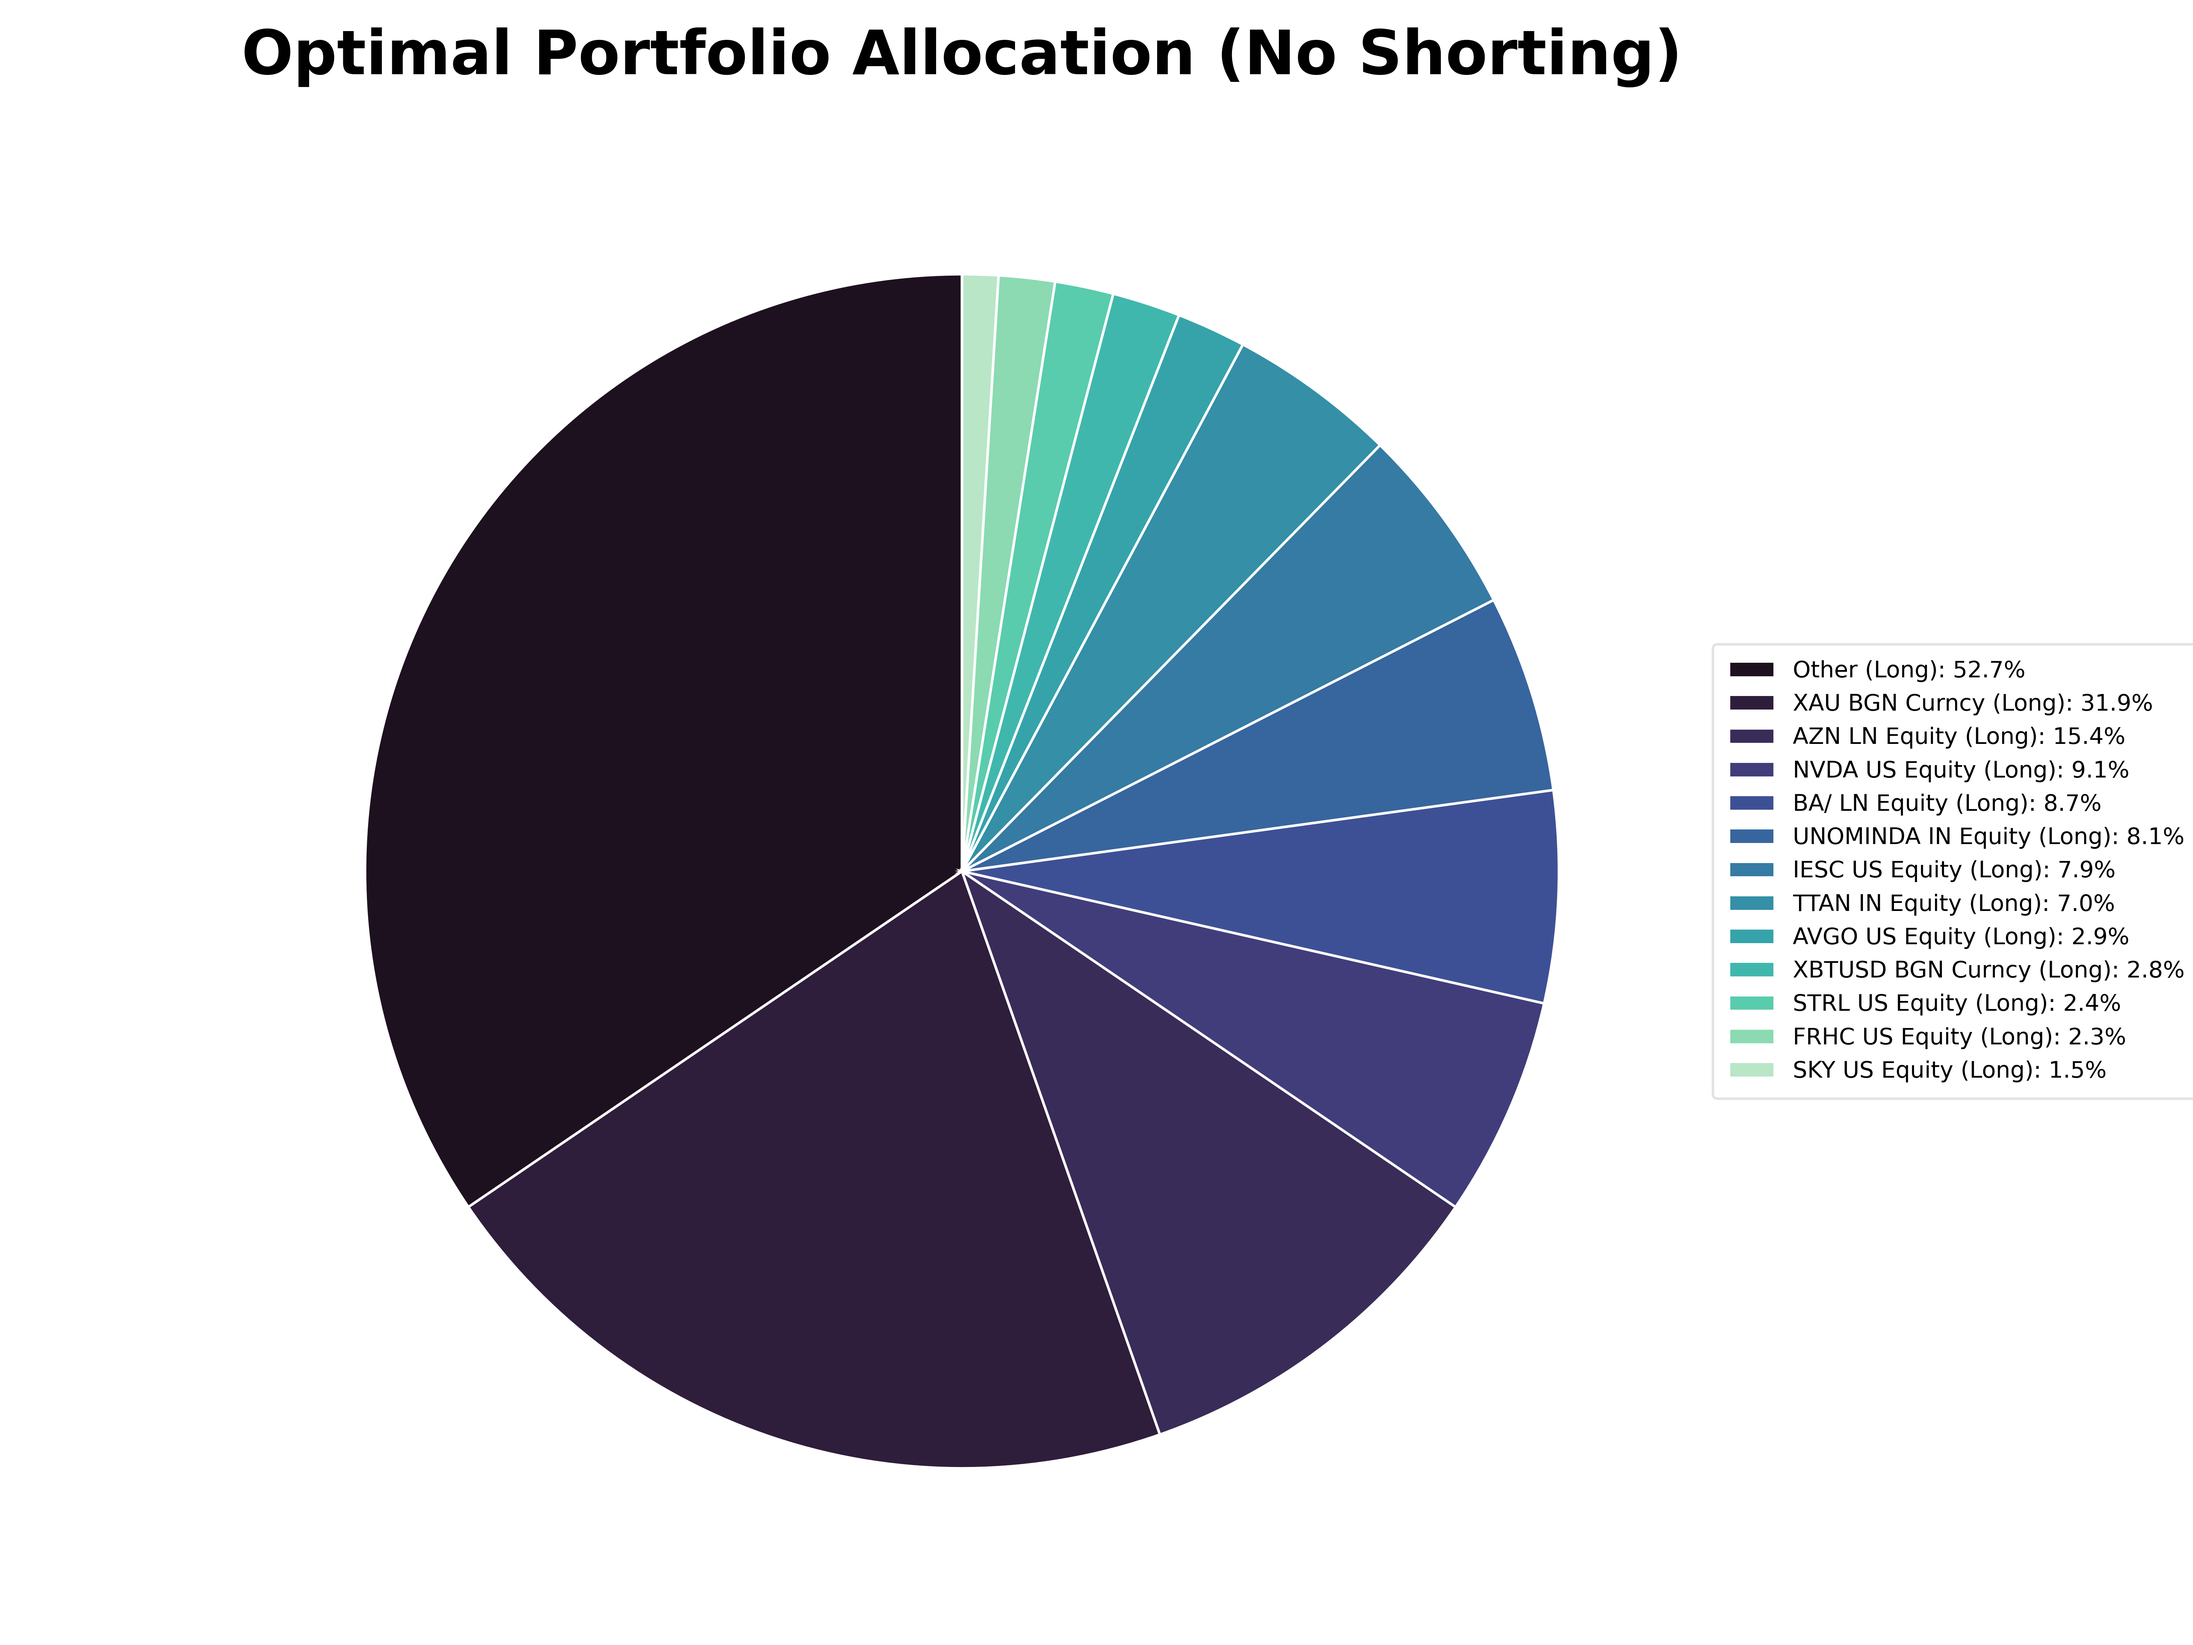
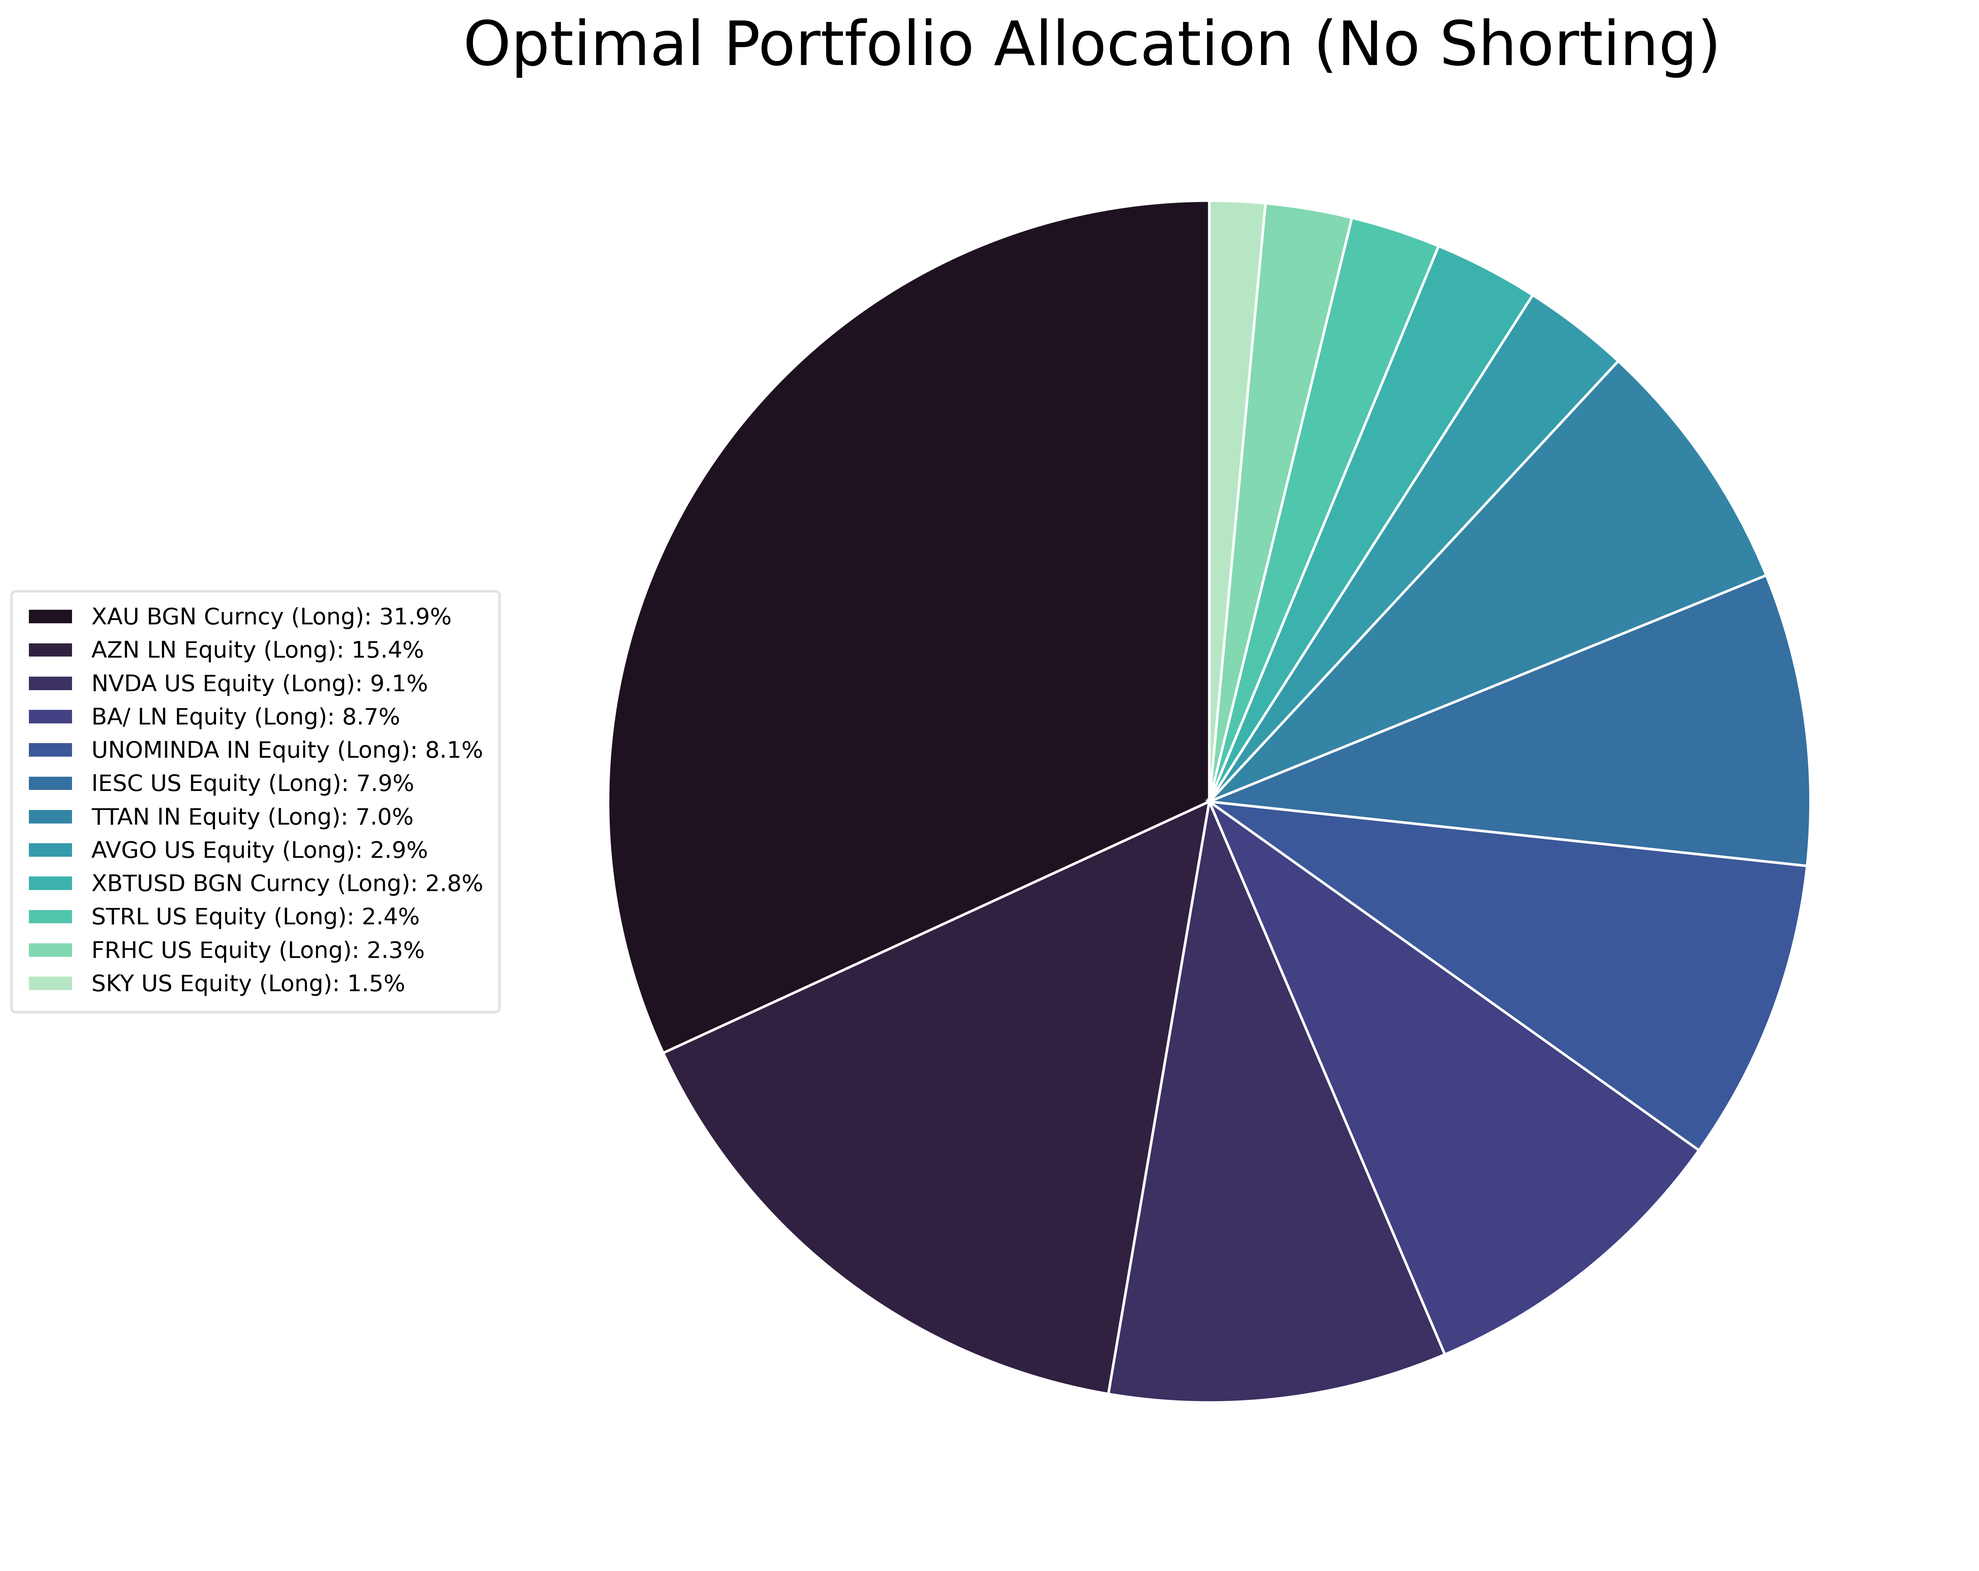
Updated function for plot creation.

diff --git a/src/visualization/portfolio_plots.py b/src/visualization/portfolio_plots.py
@@ -3,11 +3,16 @@ import os
 import numpy as np
 import seaborn as sns
 
+import matplotlib.pyplot as plt
+import os
+import numpy as np
+import seaborn as sns
+
 
 def plot_portfolio_allocation(weights, title, filename):
     """
     Create a professional pie chart of portfolio allocations
-    
+
     Parameters:
     weights (Series): Portfolio weights/allocations (negative values indicate short positions)
     title (str): Chart title
@@ -18,19 +23,27 @@ def plot_portfolio_allocation(weights, title, filename):
     plt.rcParams['font.size'] = 10
     plt.rcParams['axes.titlesize'] = 12
     plt.rcParams['axes.titleweight'] = 'bold'
-    
-    # Filter and sort weights
-    significant_weights = weights[abs(weights) > 0.01]
-    other = weights[abs(weights) <= 0.1].sum()
-    if abs(other) > 0:
-        significant_weights['Other'] = other
-    
+
+    # Separate significant weights (>1%) and small weights (0% to 1%)
+    significant_weights = weights[abs(weights) > 0.01]  # > 1%
+    small_weights = weights[(abs(weights) > 0) & (abs(weights) <= 0.01)]  # 0% to 1%
+
+    # Create "Others" category if there are small weights
+    if len(small_weights) > 0:
+        others_total = small_weights.sum()
+        if abs(others_total) > 0:
+            # Add Others to significant weights for plotting
+            significant_weights = significant_weights.copy()
+            significant_weights['Others'] = others_total
+
     # Sort by absolute weight descending
     significant_weights = significant_weights.iloc[abs(significant_weights).argsort()[::-1]]
     labels = significant_weights.index
 
-    # Create figure with 4:3 aspect ratio
+    # Create figure with adjusted margins for left legend
     fig = plt.figure(figsize=(12, 9), dpi=500)
+    plt.subplots_adjust(left=0.25, right=0.95)  # Make space on left for legend
+
     ax1 = fig.add_subplot(111)  # Main plot area
 
     # Create pie chart without labels or percentages
@@ -42,16 +55,22 @@ def plot_portfolio_allocation(weights, title, filename):
         wedgeprops={'linewidth': 1, 'edgecolor': 'white'}
     )[0]
 
-    # Create detailed legend with allocation info
+    # Create detailed legend with allocation info - SORTED DESCENDING
     legend_labels = [
         f"{label} ({'Long' if significant_weights[label] > 0 else 'Short'}): {abs(significant_weights[label]):.1%}"
         for label in labels
     ]
+
+    # Sort patches and labels by absolute weight descending
+    sorted_indices = abs(significant_weights).argsort()[::-1]
+    sorted_patches = [patches[i] for i in sorted_indices]
+    sorted_legend_labels = [legend_labels[i] for i in sorted_indices]
+
     legend = ax1.legend(
-        patches,
-        legend_labels,
+        sorted_patches,
+        sorted_legend_labels,
         loc='center left',
-        bbox_to_anchor=(1, 0.5),
+        bbox_to_anchor=(-0.3, 0.5),  # Move legend to left side
         fontsize=9,
         frameon=True,
         fancybox=True,
@@ -62,7 +81,7 @@ def plot_portfolio_allocation(weights, title, filename):
     legend.get_frame().set_boxstyle("round,pad=0.3,rounding_size=0.2")
 
     # Main title and layout
-    plt.title(title, fontsize=24, pad=20)
+    fig.suptitle(title, fontsize=24, y=0.95)
     plt.tight_layout()
 
     # Save figure
@@ -70,5 +89,6 @@ def plot_portfolio_allocation(weights, title, filename):
     plt.savefig(
         f'Visualization Graphs/{filename}',
         dpi=500,
+        bbox_inches='tight'
     )
     plt.close()
